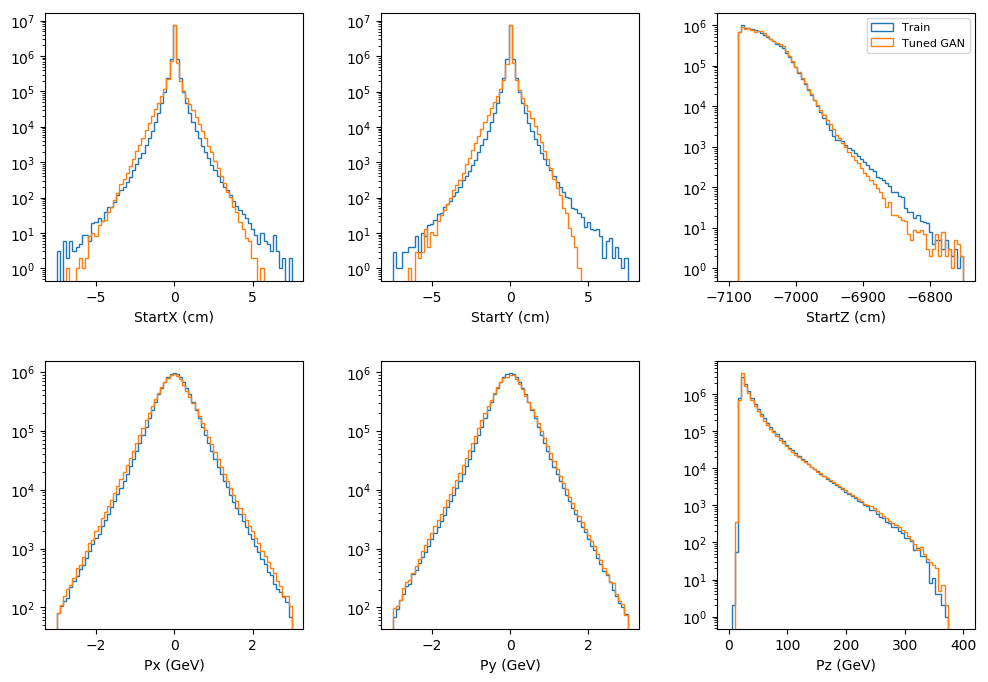
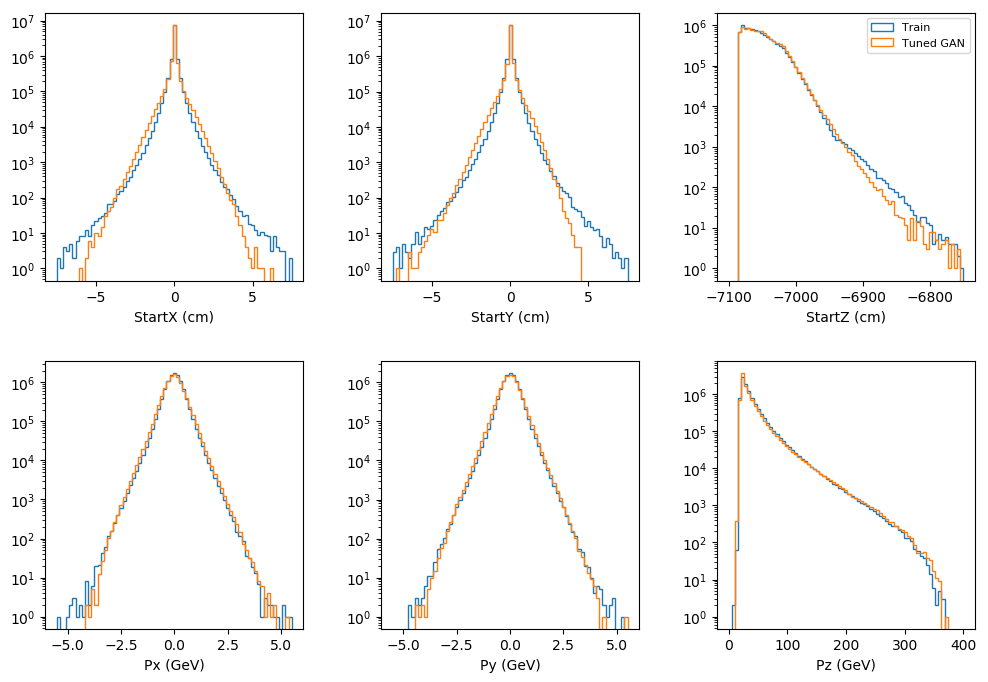
again

diff --git a/Tune_auxiliary_inputs.py b/Tune_auxiliary_inputs.py
@@ -35,7 +35,7 @@ muGAN = muGAN()
 initial_values = np.empty((4,7))
 initial_values[0] = [ 1, 0.1, 0.8, 0, 0, 0, 0] # x y
 initial_values[1] = [ 0, 0, 0, 0.0005, 1.2, 1E-3, 0.27] # z 
-initial_values[2] = [ 0, 0, 0, 0.008, 1.3, 0.00025, 0.12] # px py
+initial_values[2] = [ 0, 0, 0, 0.009, 1.3, 0.0005, 0.12] # px py
 initial_values[3] = [ 0, 0, 0, 0.5, 0.8, 0, 0.2] # pz
 
 
